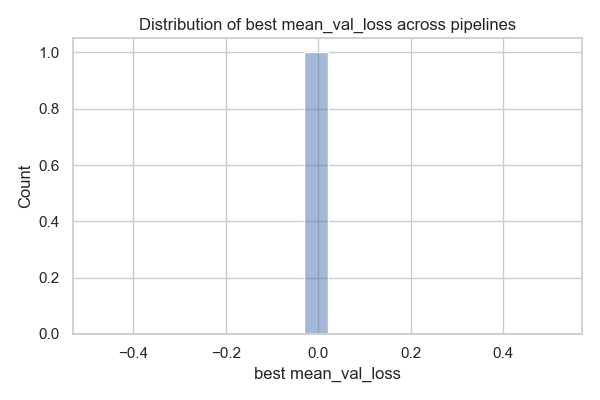
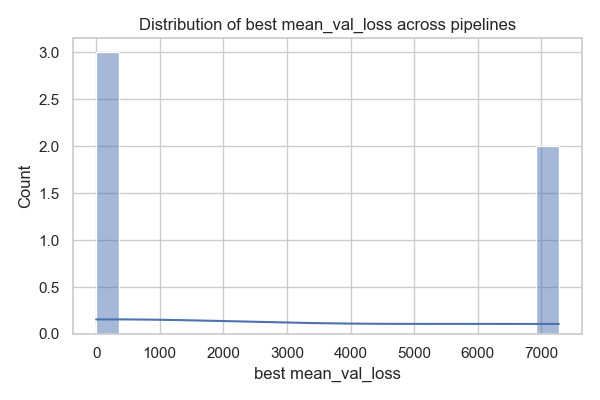
new visualizations

diff --git a/src/visualize.py b/src/visualize.py
@@ -9,7 +9,7 @@ import seaborn as sns
 from pandas.plotting import parallel_coordinates
 
 RESULTS_DIR = "results"
-ARTIFACTS_DIR = "artifacts"
+ARTIFACTS_DIR = "artifacts_new_version"
 
 
 def find_pipelines():
@@ -105,7 +105,25 @@ def plot_cv_summary(df: pd.DataFrame, pipeline: str, out_dir: str):
             if maxv > minv:
                 pc_df[c] = (pc_df[c] - minv) / (maxv - minv)
         # create loss group
-        pc_df["loss_group"] = pd.qcut(pc_df["mean_val_loss"], q=3, labels=["low", "mid", "high"])
+        try:
+            pc_df["loss_group"] = pd.qcut(pc_df["mean_val_loss"], q=3, labels=["low", "mid", "high"])
+        except ValueError:
+            # qcut can fail when values are identical (duplicate bin edges). Fall back to safer grouping.
+            n_unique = pc_df["mean_val_loss"].nunique()
+            if n_unique == 1:
+                # all values the same -> single neutral group
+                pc_df["loss_group"] = "mid"
+            else:
+                # try fewer bins equal to unique values (up to 3)
+                bins = min(3, n_unique)
+                labels = ["low", "mid", "high"][:bins]
+                try:
+                    pc_df["loss_group"] = pd.qcut(pc_df["mean_val_loss"], q=bins, labels=labels, duplicates="drop")
+                except Exception:
+                    # final fallback: split by median into low/high
+                    median = pc_df["mean_val_loss"].median()
+                    pc_df["loss_group"] = pc_df["mean_val_loss"].apply(lambda v: "low" if v <= median else "high")
+
         plt.figure(figsize=(9, 5))
         parallel_coordinates(pc_df[[*feature_cols, "loss_group"]], class_column="loss_group", colormap=plt.get_cmap("Set1"))
         plt.title(f"Parallel coordinates (hyperparams) — {pipeline}")
@@ -152,6 +170,11 @@ def plot_comparison_across_pipelines(pipelines: list, out_dir: str):
         return
 
     comp_df = pd.DataFrame(bests).sort_values("best_mean_val_loss")
+    # ensure numeric and drop invalid entries
+    comp_df["best_mean_val_loss"] = pd.to_numeric(comp_df["best_mean_val_loss"], errors="coerce")
+    comp_df = comp_df.dropna()
+
+    # Linear-scale barplot (original view)
     plt.figure(figsize=(10, max(4, len(comp_df) * 0.25)))
     sns.barplot(data=comp_df, x="best_mean_val_loss", y="pipeline", palette="coolwarm")
     plt.title("Best mean_val_loss per pipeline")
@@ -163,9 +186,23 @@ def plot_comparison_across_pipelines(pipelines: list, out_dir: str):
     plt.close()
     print(f"Saved cross-pipeline comparison -> {cmp_path}")
 
-    # Histogram of best scores across pipelines
+    # Log-scale barplot so small values are visible alongside large outliers
+    if not comp_df["best_mean_val_loss"].le(0).all():
+        plt.figure(figsize=(10, max(4, len(comp_df) * 0.25)))
+        sns.barplot(data=comp_df, x="best_mean_val_loss", y="pipeline", palette="coolwarm")
+        plt.xscale("log")
+        plt.title("Best mean_val_loss per pipeline (log scale)")
+        plt.xlabel("best mean_val_loss (log scale)")
+        plt.ylabel("pipeline")
+        cmp_log_path = os.path.join(out_dir, "cross_pipeline_best_mean_val_loss_log.png")
+        plt.tight_layout()
+        plt.savefig(cmp_log_path)
+        plt.close()
+        print(f"Saved cross-pipeline comparison (log) -> {cmp_log_path}")
+
+    # Histogram of best scores across pipelines (linear)
     plt.figure(figsize=(6, 4))
-    sns.histplot(all_best_values, bins=20, kde=True)
+    sns.histplot(comp_df["best_mean_val_loss"].values, bins=20, kde=True)
     plt.title("Distribution of best mean_val_loss across pipelines")
     plt.xlabel("best mean_val_loss")
     path = os.path.join(out_dir, "cross_pipeline_best_distribution.png")
@@ -173,6 +210,19 @@ def plot_comparison_across_pipelines(pipelines: list, out_dir: str):
     plt.savefig(path)
     plt.close()
     print(f"Saved cross-pipeline best distribution -> {path}")
+
+    # Histogram (log scale)
+    if not comp_df["best_mean_val_loss"].le(0).all():
+        plt.figure(figsize=(6, 4))
+        sns.histplot(comp_df["best_mean_val_loss"].values, bins=40, kde=True)
+        plt.xscale("log")
+        plt.title("Distribution of best mean_val_loss across pipelines (log scale)")
+        plt.xlabel("best mean_val_loss (log scale)")
+        path_log = os.path.join(out_dir, "cross_pipeline_best_distribution_log.png")
+        plt.tight_layout()
+        plt.savefig(path_log)
+        plt.close()
+        print(f"Saved cross-pipeline best distribution (log) -> {path_log}")
 
 
 
